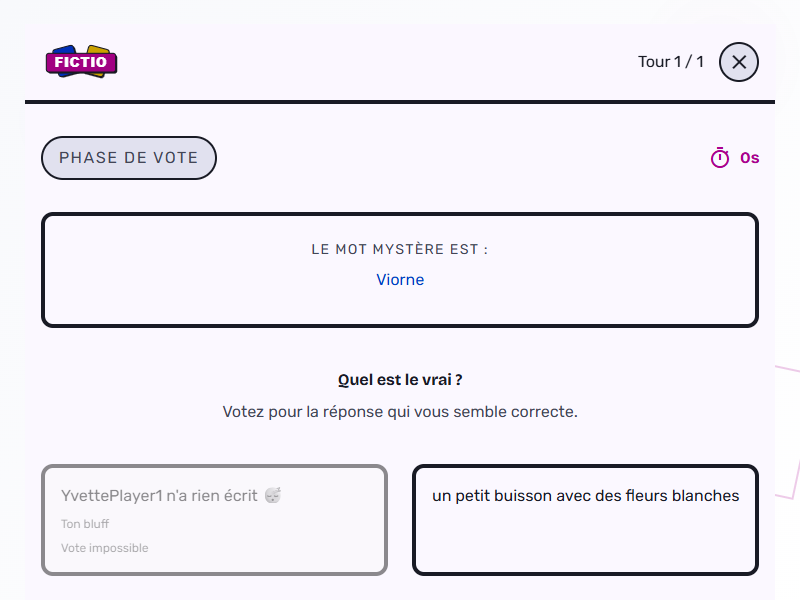
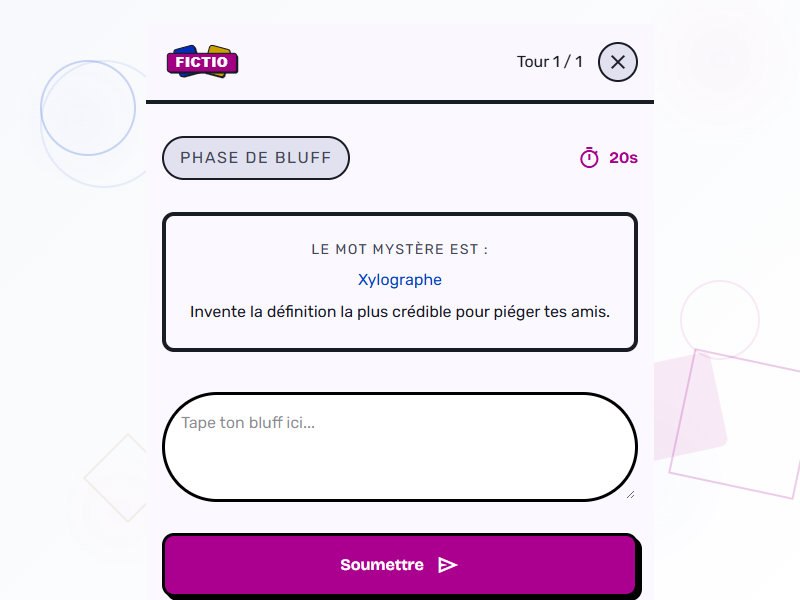
feat: limit question types streaks to maximum 3 in a row

diff --git a/src/data/questions.ts b/src/data/questions.ts
@@ -4992,6 +4992,23 @@ export const questions: GameQuestion[] = [
   }
 ];
 
-export function getRandomQuestion(): GameQuestion {
-  return questions[Math.floor(Math.random() * questions.length)];
+export function getRandomQuestion(history: ('word' | 'question')[] = []): GameQuestion {
+  let excludeType: 'word' | 'question' | null = null;
+  
+  if (history.length >= 3) {
+    const last3 = history.slice(-3);
+    if (last3.every(t => t === 'word')) {
+      excludeType = 'word';
+    } else if (last3.every(t => t === 'question')) {
+      excludeType = 'question';
+    }
+  }
+
+  let pool = questions;
+  if (excludeType) {
+    pool = questions.filter(q => q.type !== excludeType);
+    if (pool.length === 0) pool = questions; // Fallback
+  }
+
+  return pool[Math.floor(Math.random() * pool.length)];
 }

diff --git a/src/views/LobbyView.vue b/src/views/LobbyView.vue
@@ -163,7 +163,10 @@ const startGame = async () => {
     batch.update(pRef, { score: 0, hasSubmitted: false, hasVoted: false });
   });
   
-  const question = getRandomQuestion();
+  const history = room.value?.previousTypes || [];
+  const question = getRandomQuestion(history);
+  const newHistory = [...history, question.type];
+  
   const limit = room.value?.bluffTimeLimit || 30;
   batch.update(roomRef, {
     state: 'playing',
@@ -172,6 +175,7 @@ const startGame = async () => {
     phase: 'bluffing',
     phaseEndsAt: Date.now() + (limit * 1000),
     question: question,
+    previousTypes: newHistory,
     propositions: [],
     readyPlayers: []
   });

diff --git a/src/views/GameView.vue b/src/views/GameView.vue
@@ -279,7 +279,9 @@ const nextRound = async () => {
         });
         
         const { getRandomQuestion } = await import('@/data/questions');
-        const question = getRandomQuestion();
+        const history = room.value.previousTypes || [];
+        const question = getRandomQuestion(history);
+        const newHistory = [...history, question.type];
         const bluffLimit = room.value.bluffTimeLimit || 30;
         
         batch.update(roomRef, {
@@ -287,6 +289,7 @@ const nextRound = async () => {
             phase: 'bluffing',
             phaseEndsAt: Date.now() + (bluffLimit * 1000),
             question: question,
+            previousTypes: newHistory,
             propositions: []
         });
         

diff --git a/src/types.ts b/src/types.ts
@@ -34,6 +34,7 @@ export type Room = {
     trueAnswer: string;
     type: 'word' | 'question';
   };
+  previousTypes?: ('word' | 'question')[];
   propositions?: Proposition[];
   readyPlayers?: string[]; // array of playerIds ready for next round
 };